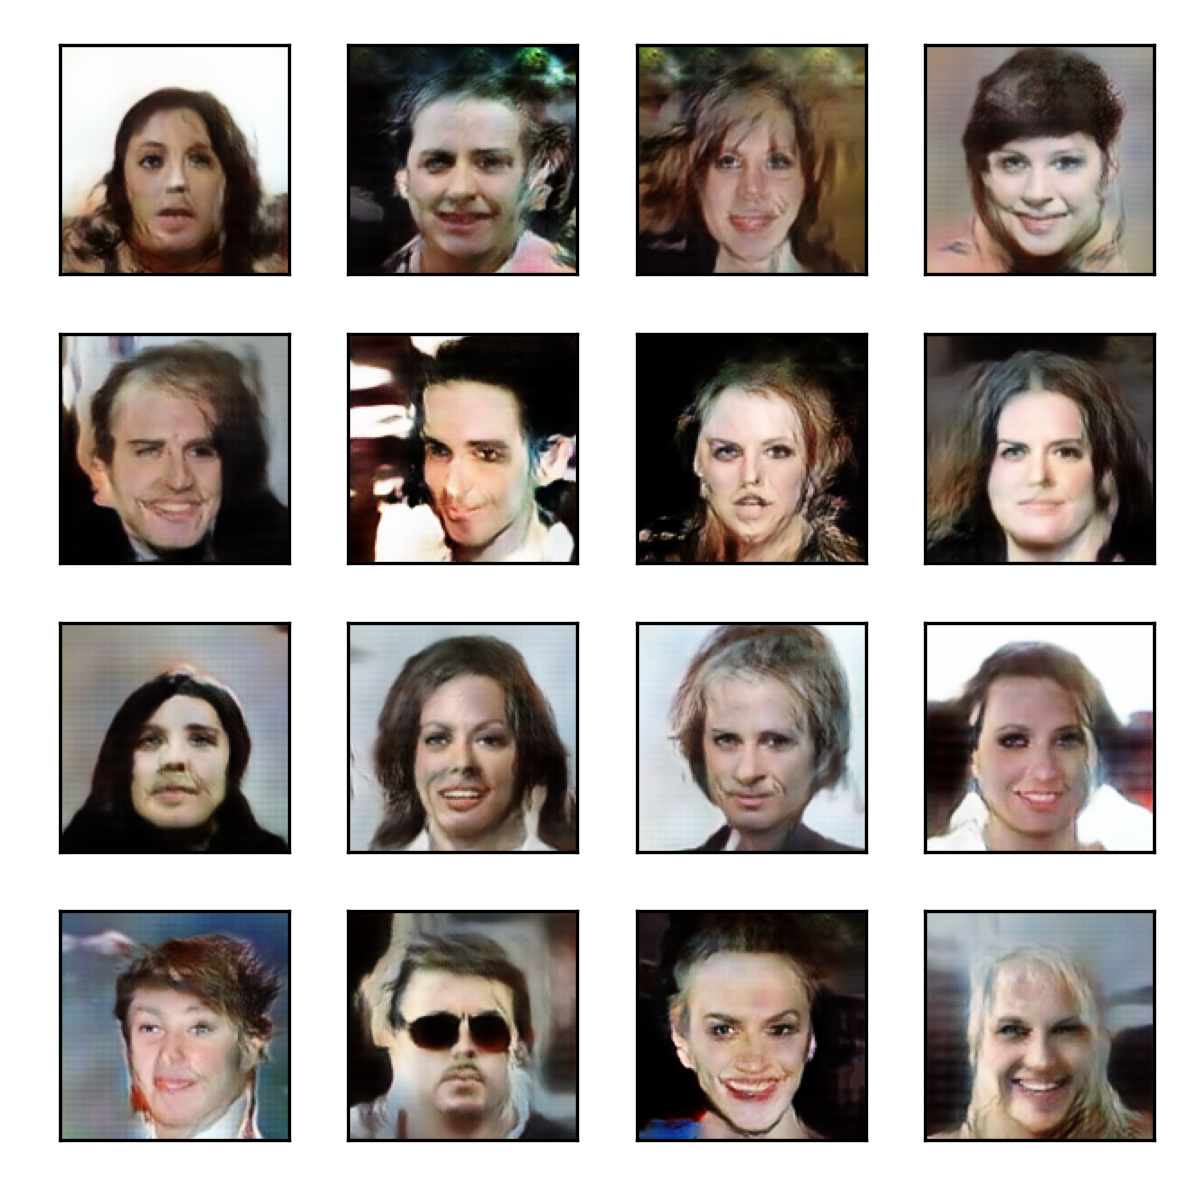
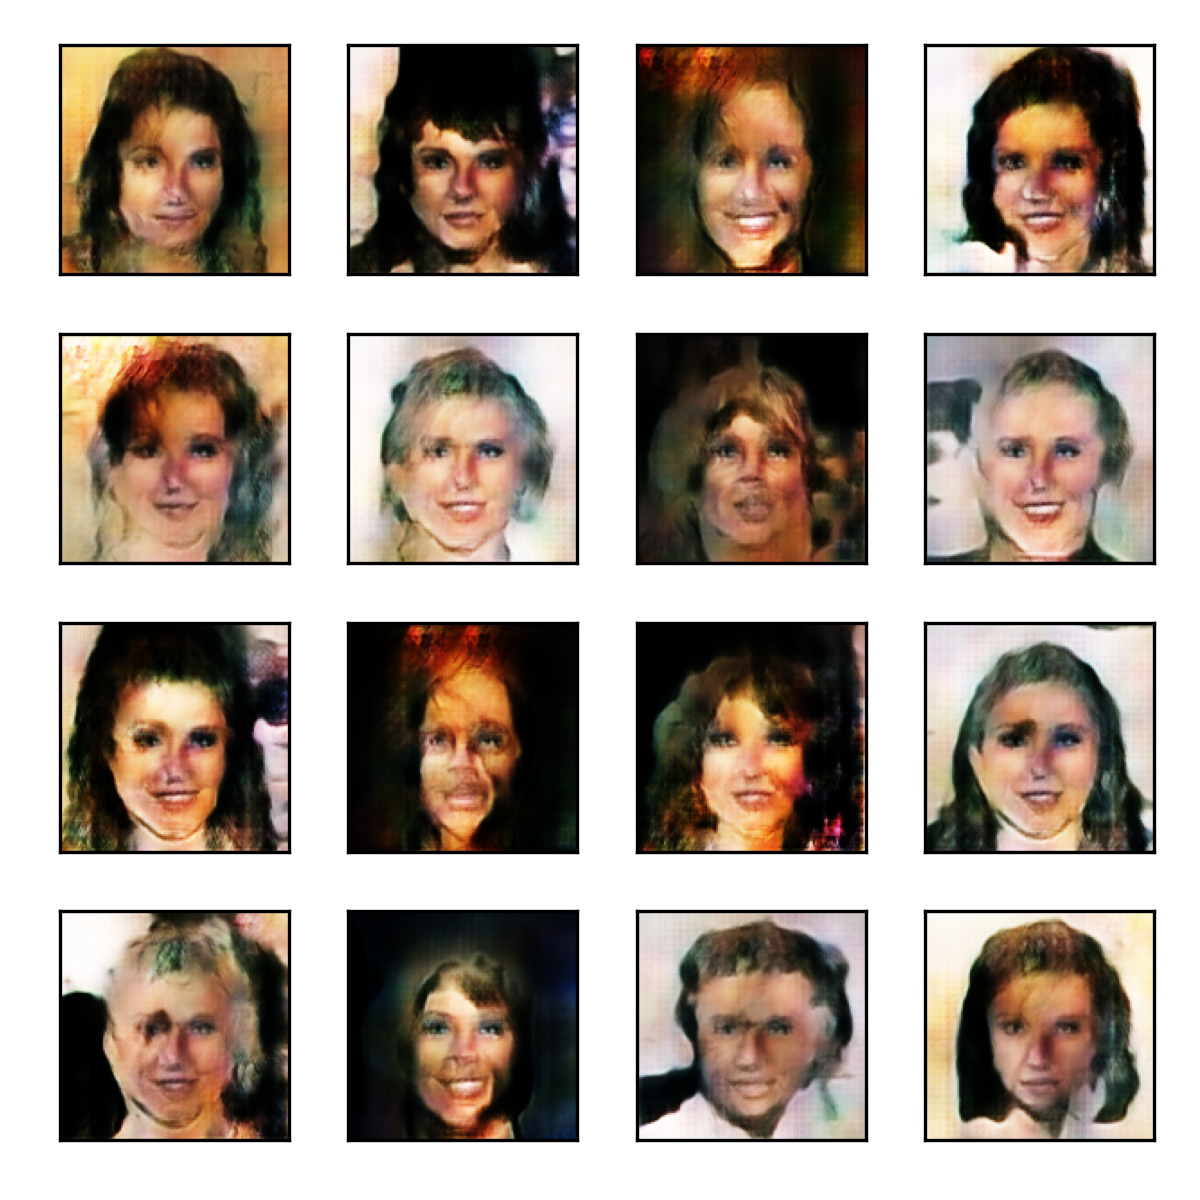
Start flickr_faces training

diff --git a/main.py b/main.py
@@ -179,11 +179,7 @@ def process_path(file_path):
 
     img = tf.image.resize(img, size=(GEN_DIM, GEN_DIM))
     img = tf.image.random_flip_left_right(img)
-    '''
-    noise = 0.1
-    img = tf.image.random_brightness(img, max_delta=noise)
-    img = tf.image.random_contrast(img, lower=(1 / (1 + noise)), upper=(1 + noise))
-    '''
+
     img = img * 2 - 1.0
 
     z_vector = tf.random.normal(shape=(Z_SIZE,))
@@ -198,8 +194,8 @@ image_dict = {
     "flickr_faces": str(os.path.join("photos", "thumbnails128x128", "*", "*.png")),
 }
 
-dataset = "celeba"
-model_version = 458
+dataset = "flickr_faces"
+model_version = 0
 log_frequency = 12 * 60  # seconds
 git_log_frequency = 20  # versions
 
@@ -214,8 +210,8 @@ BUFFER_SIZE = 4096
 
 LAMBDA_GP = 10
 BETA_1 = 0
-G_LR = 0.00008  # Generator learning rate
-D_LR = 0.0002  # Discriminator learning rate
+G_LR = 0.0001  # Generator learning rate
+D_LR = 0.0004  # Discriminator learning rate
 
 images_path = image_dict[dataset]
 
@@ -228,8 +224,6 @@ n_images = len(list(list_ds))
 list_ds.shuffle(buffer_size=n_images, reshuffle_each_iteration=False)
 ds = list_ds.map(process_path)
 ds = ds.shuffle(buffer_size=BUFFER_SIZE).batch(BATCH_SIZE, drop_remainder=True).repeat()
-
-
 
 if model_version == 0:
     gen_model, disc_model = create_network()
@@ -244,10 +238,7 @@ if model_version == 0:
 
 else:
     gen_model, disc_model = load_network()
-    #g_optimizer, d_optimizer = load_optimizers()
-
-    g_optimizer = tf.keras.optimizers.Adam(learning_rate=G_LR, beta_1=BETA_1)
-    d_optimizer = tf.keras.optimizers.Adam(learning_rate=D_LR, beta_1=BETA_1)
+    g_optimizer, d_optimizer = load_optimizers()
 
     dict_loss = pd.read_csv(os.path.join(dataset, "logs", "loss.csv")).to_dict("list")
     initial_batch_count = int(dict_loss["Images trained"][-1] / BATCH_SIZE)
